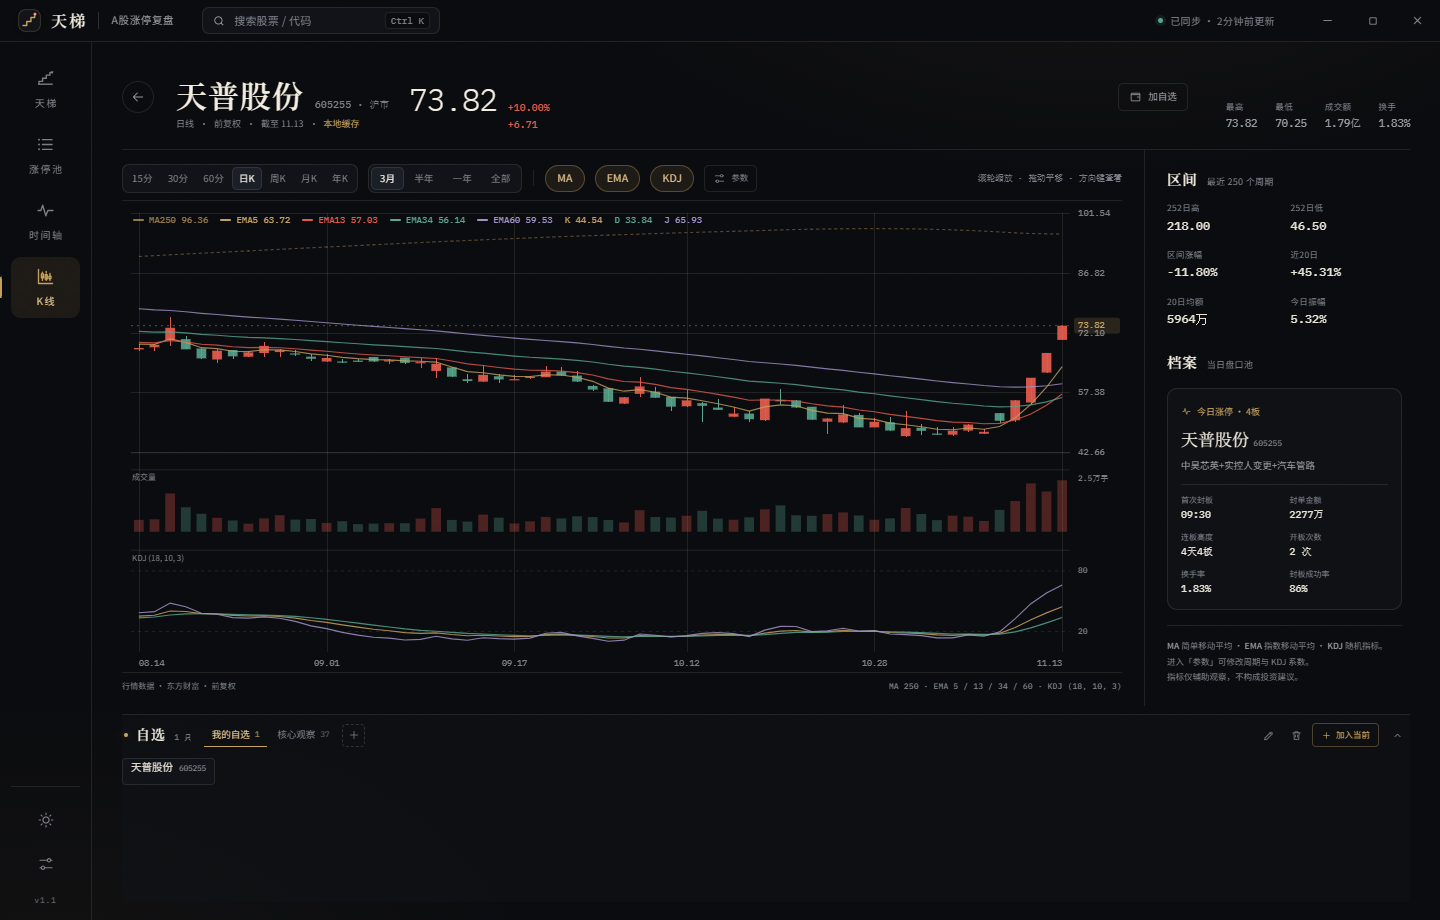
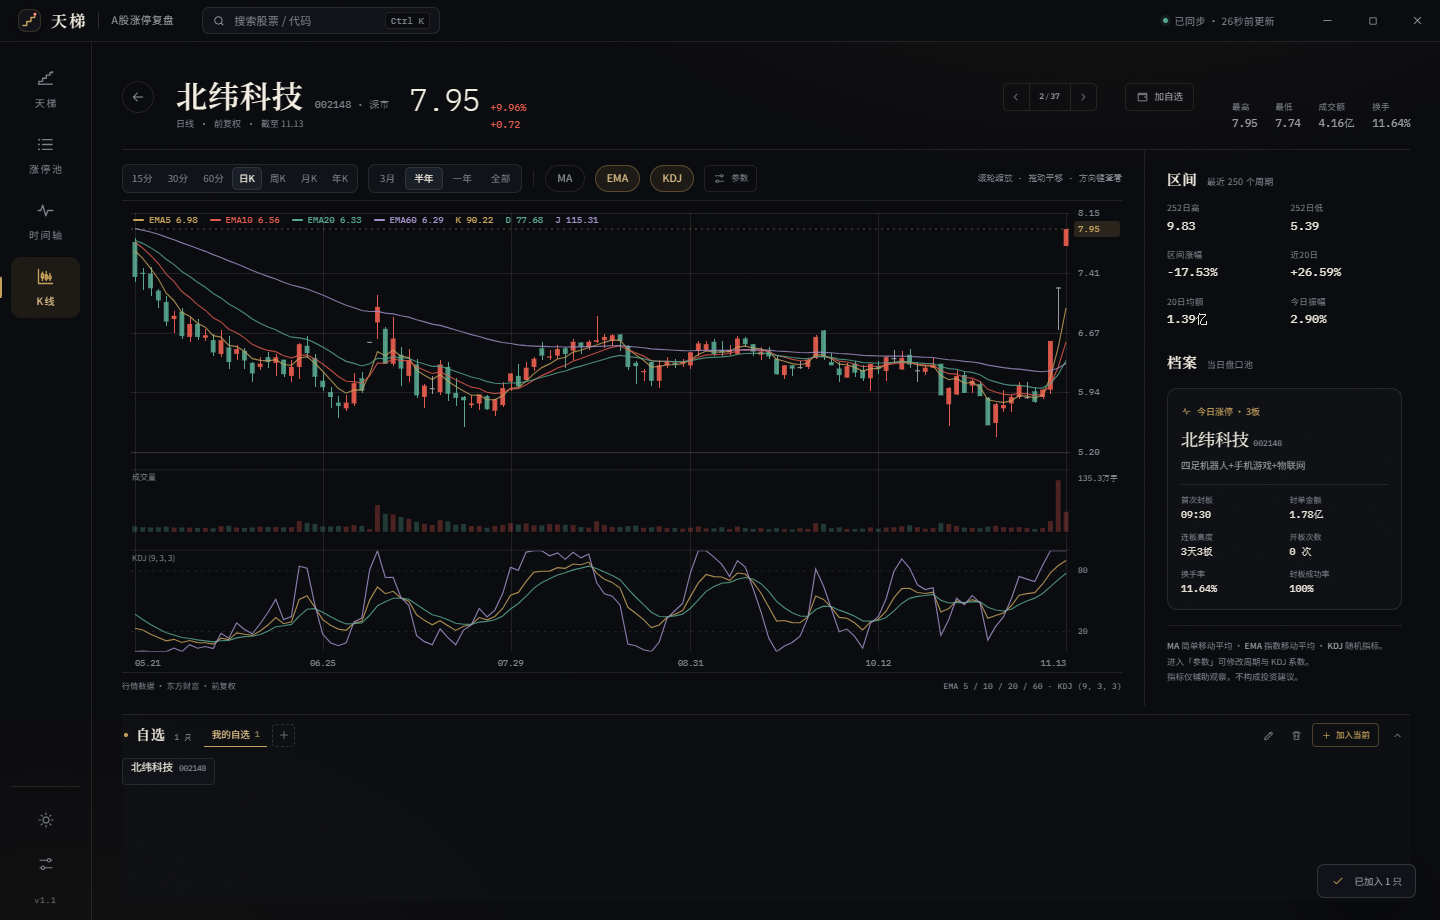
feat: switch stocks in place from the chart header

diff --git a/src/views/chart.ts b/src/views/chart.ts
@@ -1,5 +1,5 @@
 import { esc, fmtAmount, fmtClock, fmtMoney, fmtPct, fmtPrice, fmtShortDate, icon, tierName, tone } from "../lib/ui";
-import { findStock, state } from "../lib/state";
+import { filterStocks, findStock, state } from "../lib/state";
 import type { ChartPrefs, KlineCandle } from "../lib/types";
 
 const PERIODS: Array<{ value: import("../lib/types").Period; label: string }> = [
@@ -97,10 +97,32 @@ export function renderChartView(): string {
   </section>`;
 }
 
+export function chartSwitchContext(): { list: Array<{ code: string; name: string; market: string }>; index: number } {
+  const current = state.chartStock;
+  if (!current || current.kind !== "stock") return { list: [], index: -1 };
+  let list = filterStocks().map((s) => ({ code: s.code, name: s.name, market: s.market }));
+  if (!list.some((s) => s.code === current.code)) {
+    const group = state.watchGroups.find((g) => g.id === state.watchGroupId) ?? state.watchGroups[0];
+    const groupList = group?.stocks ?? [];
+    if (groupList.some((s) => s.code === current.code)) list = groupList.slice();
+  }
+  if (!list.some((s) => s.code === current.code)) {
+    const seen = new Set<string>();
+    list = [];
+    for (const s of [...(state.day?.stocks ?? []), ...(state.day?.openLimit ?? []), ...(state.day?.limitDown ?? [])]) {
+      if (seen.has(s.code)) continue;
+      seen.add(s.code);
+      list.push({ code: s.code, name: s.name, market: s.market });
+    }
+  }
+  return { list, index: list.findIndex((s) => s.code === current.code) };
+}
+
 export function renderChartHead(): string {
   const stock = state.chartStock;
   if (!stock) return "";
   const data = state.chartData;
+  const switcher = chartSwitchContext();
   const candles = data?.candles ?? [];
   const st = stats(candles);
   const last = st?.last;
@@ -151,6 +173,11 @@ export function renderChartHead(): string {
     ${identity}
     ${quote}
     <div class="chart-head-spacer"></div>
+    ${stock.kind === "stock" ? `<div class="chart-switch" title="在当前列表 / 自选分组中直接切换">
+      <button data-action="chart-prev" aria-label="上一只" ${switcher.list.length < 2 ? "disabled" : ""}>${icon("chevronLeft", 13)}</button>
+      <span>${switcher.index >= 0 ? switcher.index + 1 : "—"}<i>/</i>${switcher.list.length || "—"}</span>
+      <button data-action="chart-next" aria-label="下一只" ${switcher.list.length < 2 ? "disabled" : ""}>${icon("chevronRight", 13)}</button>
+    </div>` : ""}
     ${stock.kind === "stock" ? `<button class="chart-watch-add" data-action="watch-add-current">${icon("wallet", 13)} 加自选</button>` : ""}
     ${snapshots}`;
 }

diff --git a/src/main.ts b/src/main.ts
@@ -4,7 +4,7 @@ import { availableDates, filterStocks, neighbors, parseHash, state } from "./lib
 import type { ChartPrefs, ChartSelection, Period, SearchItem, Theme, WatchStock } from "./lib/types";
 import { esc, fmtBytes, fmtShortDate, icon, relTime, weekdayFromYmd } from "./lib/ui";
 import { KLineChart } from "./chart";
-import { indicatorSummary, renderChartToolbar, renderChartView, renderWatchPanel } from "./views/chart";
+import { chartSwitchContext, indicatorSummary, renderChartToolbar, renderChartView, renderWatchPanel } from "./views/chart";
 import { renderIndices, renderRail, renderTitlebar, syncLabel } from "./views/common";
 import { renderLadder } from "./views/ladder";
 import { renderPool, updatePoolStage, updatePoolTable } from "./views/pool";
@@ -323,7 +323,7 @@ function navigate(view: "ladder" | "pool" | "timeline" | "chart"): void {
   updateChrome();
 }
 
-function openChart(code: string, name: string, market = ""): void {
+function openChart(code: string, name: string, market = "", animate = true): void {
   if (!code) return;
   if (state.view !== "chart") state.returnView = state.view;
   state.chartStock = { code, name, market, kind: "stock" };
@@ -332,7 +332,7 @@ function openChart(code: string, name: string, market = ""): void {
   state.chartError = null;
   state.chartLoading = true;
   syncHash();
-  renderMain();
+  renderMain({ animate });
   void loadChart();
 }
 
@@ -347,6 +347,13 @@ function openIndexChart(secid: string, name: string): void {
   syncHash();
   renderMain();
   void loadChart();
+}
+
+function stepChart(delta: number): void {
+  const ctx = chartSwitchContext();
+  if (ctx.list.length < 2 || ctx.index < 0) return;
+  const next = ctx.list[(ctx.index + delta + ctx.list.length) % ctx.list.length];
+  if (next && next.code !== state.chartStock?.code) openChart(next.code, next.name, next.market, false);
 }
 
 function chartBack(): void {
@@ -691,6 +698,12 @@ function handleClick(e: MouseEvent): void {
       break;
     case "chart-back":
       chartBack();
+      break;
+    case "chart-prev":
+      stepChart(-1);
+      break;
+    case "chart-next":
+      stepChart(1);
       break;
     case "chart-retry":
       if (state.chartStock) void loadChart();

diff --git a/src/styles.css b/src/styles.css
@@ -2309,6 +2309,40 @@ select.select option { background: var(--surface); color: var(--text); }
 /* chart body + watch list */
 .chart-body { flex: 1 1 auto; min-height: 0; display: flex; flex-direction: column; }
 .chart-body .chart-layout { flex: 1 1 auto; }
+.chart-switch {
+  align-self: center;
+  display: inline-flex;
+  align-items: center;
+  height: 28px;
+  margin-right: 8px;
+  border: 1px solid var(--line);
+  border-radius: 5px;
+  color: var(--faint);
+  overflow: hidden;
+}
+.chart-switch button {
+  width: 25px;
+  height: 26px;
+  display: grid;
+  place-items: center;
+  color: var(--faint);
+  transition: color .15s, background .15s;
+}
+.chart-switch button:hover:not(:disabled) { color: var(--brass); background: var(--brass-soft); }
+.chart-switch button:disabled { opacity: .28; cursor: default; }
+.chart-switch button .icon { width: 12px; height: 12px; }
+.chart-switch > span {
+  min-width: 42px;
+  padding: 0 2px;
+  text-align: center;
+  font-family: var(--mono);
+  font-size: 8px;
+  color: var(--muted);
+  border-left: 1px solid var(--line);
+  border-right: 1px solid var(--line);
+  line-height: 26px;
+}
+.chart-switch > span i { font-style: normal; color: var(--faint); margin: 0 1px; font-size: 7px; }
 .chart-watch-add {
   align-self: center;
   display: inline-flex;

diff --git a/README.md b/README.md
@@ -15,7 +15,7 @@
 - **连板天梯**：按当前连续涨停高度分层，最高标使用独立 feature 卡片；首板高密度收纳。顶部同时显示涨停 / 炸板 / 跌停 / 最高板。
 - **盘口池**：涨停、炸板、跌停三个池子切换；涨停池支持连板 / 首板 / 一字 / 换手筛选与板块筛选；炸板池展示开板次数、末封与推断炸板时间；跌停池展示推断跌停时间。切换池子与筛选只更新数据，不重绘整页。
 - **盘口时间轴**：从 09:15 集合竞价到 15:00，一条压缩午休的时间线，分「涨停 / 炸板 / 跌停」三条泳道；点按落点可跳到逐分钟事件。涨停时间取首次封板，炸板与跌停时间由分时采样推断。
-- **K线**：15分 / 30分 / 60分 / 日 / 周 / 月 / 年 K，前复权；MA、EMA、KDJ 可独立开关并修改参数；成交量、十字光标、滚轮缩放、拖动平移、方向键查看。点击顶部指数可直接查看指数 K线。
+- **K线**：15分 / 30分 / 60分 / 日 / 周 / 月 / 年 K，前复权；MA、EMA、KDJ 可独立开关并修改参数；成交量、十字光标、滚轮缩放、拖动平移、方向键查看。点击顶部指数可直接查看指数 K线；标题栏可在当前池 / 自选分组中直接「上一只 / 下一只」，无需退回列表。
 - **自选与分组**：K线下方常驻自选列表；支持新建、重命名、二次确认删除分组；可把当前股票加入自选，也可把涨停池当前筛选结果批量加入；同组内自动去重，同一只股票可加入多个分组；右键股票可分配到其他分组或从当前分组移除。
 - **搜索**：代码、名称、拼音首字母；最近查看保存在本地。
 - **交易日历**：近一年交易日切换；数据本地缓存，离线仍可查看已拉取过的日期与 K线。

diff --git a/release/README.md b/release/README.md
@@ -15,7 +15,7 @@
 - **连板天梯**：按当前连续涨停高度分层，最高标使用独立 feature 卡片；首板高密度收纳。顶部同时显示涨停 / 炸板 / 跌停 / 最高板。
 - **盘口池**：涨停、炸板、跌停三个池子切换；涨停池支持连板 / 首板 / 一字 / 换手筛选与板块筛选；炸板池展示开板次数、末封与推断炸板时间；跌停池展示推断跌停时间。切换池子与筛选只更新数据，不重绘整页。
 - **盘口时间轴**：从 09:15 集合竞价到 15:00，一条压缩午休的时间线，分「涨停 / 炸板 / 跌停」三条泳道；点按落点可跳到逐分钟事件。涨停时间取首次封板，炸板与跌停时间由分时采样推断。
-- **K线**：15分 / 30分 / 60分 / 日 / 周 / 月 / 年 K，前复权；MA、EMA、KDJ 可独立开关并修改参数；成交量、十字光标、滚轮缩放、拖动平移、方向键查看。点击顶部指数可直接查看指数 K线。
+- **K线**：15分 / 30分 / 60分 / 日 / 周 / 月 / 年 K，前复权；MA、EMA、KDJ 可独立开关并修改参数；成交量、十字光标、滚轮缩放、拖动平移、方向键查看。点击顶部指数可直接查看指数 K线；标题栏可在当前池 / 自选分组中直接「上一只 / 下一只」，无需退回列表。
 - **自选与分组**：K线下方常驻自选列表；支持新建、重命名、二次确认删除分组；可把当前股票加入自选，也可把涨停池当前筛选结果批量加入；同组内自动去重，同一只股票可加入多个分组；右键股票可分配到其他分组或从当前分组移除。
 - **搜索**：代码、名称、拼音首字母；最近查看保存在本地。
 - **交易日历**：近一年交易日切换；数据本地缓存，离线仍可查看已拉取过的日期与 K线。

diff --git a/docs/DESIGN.md b/docs/DESIGN.md
@@ -58,7 +58,7 @@
 - 点击天梯右上角的同步时间 → 重新拉取当日数据。
 - 盘口池：涨停 / 炸板 / 跌停切换，筛选与板块切换只更新表格与工具条，不触发整页进入动画。
 - 盘口时间轴：点按任一落点，滚动到对应的逐分钟事件；股票纸片可直接进入 K线。
-- K线：滚轮缩放、拖动平移、十字光标读数、MA/EMA/KDJ 开关与参数弹层、15/30/60分钟 / 日 / 周 / 月 / 年与区间切换；点击顶部指数查看指数 K线。
+- K线：滚轮缩放、拖动平移、十字光标读数、MA/EMA/KDJ 开关与参数弹层、15/30/60分钟 / 日 / 周 / 月 / 年与区间切换；点击顶部指数查看指数 K线；标题栏的上一只 / 下一只按当前池或自选分组的顺序直接换股，不回到列表。
 - 自选：K线下方常驻；新建 / 重命名 / 二次确认删除分组；当前股票加入、涨停池批量加入、右键分配到其他分组；同组去重、跨组可重复。
 - `Ctrl K` 随时搜索；最近查看存在 SQLite 中。
 

diff --git a/release/DESIGN.md b/release/DESIGN.md
@@ -58,7 +58,7 @@
 - 点击天梯右上角的同步时间 → 重新拉取当日数据。
 - 盘口池：涨停 / 炸板 / 跌停切换，筛选与板块切换只更新表格与工具条，不触发整页进入动画。
 - 盘口时间轴：点按任一落点，滚动到对应的逐分钟事件；股票纸片可直接进入 K线。
-- K线：滚轮缩放、拖动平移、十字光标读数、MA/EMA/KDJ 开关与参数弹层、15/30/60分钟 / 日 / 周 / 月 / 年与区间切换；点击顶部指数查看指数 K线。
+- K线：滚轮缩放、拖动平移、十字光标读数、MA/EMA/KDJ 开关与参数弹层、15/30/60分钟 / 日 / 周 / 月 / 年与区间切换；点击顶部指数查看指数 K线；标题栏的上一只 / 下一只按当前池或自选分组的顺序直接换股，不回到列表。
 - 自选：K线下方常驻；新建 / 重命名 / 二次确认删除分组；当前股票加入、涨停池批量加入、右键分配到其他分组；同组去重、跨组可重复。
 - `Ctrl K` 随时搜索；最近查看存在 SQLite 中。
 
